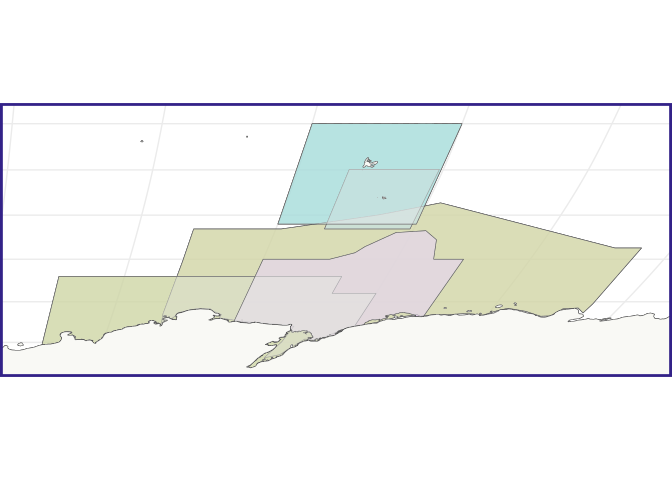
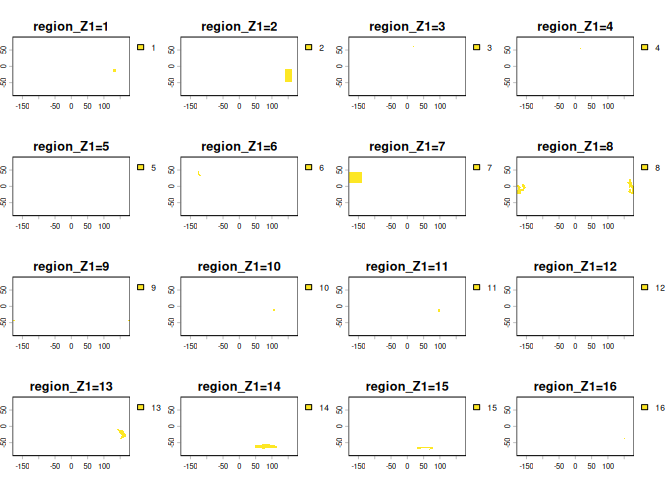
correcting minor typos

diff --git a/scripts/03b_Regional_Models_3DMasks.md b/scripts/03b_Regional_Models_3DMasks.md
@@ -47,18 +47,18 @@ and add a unique ID identifying each region.
 
 ``` r
 #Loading shapefile
-regions <- file.path(
+regions <- read_sf(file.path(
   "/rd/gem/private/shared_resources/FishMIP_regional_models", 
-  "FishMIP_regional_models.shp") |> 
-  read_sf() |> 
+  "FishMIP_regional_models.shp")) |> 
   #Create a unique ID for each region
   rowid_to_column("id")
 
 #Checking result
 ne_countries(returnclass = "sf") |> 
-  ggplot()+
-  geom_sf()+
-  geom_sf(inherit.aes = F, data = regions, aes(fill = region), alpha = 0.7)+
+  ggplot() +
+  geom_sf() +
+  geom_sf(inherit.aes = FALSE, data = regions, aes(fill = region), 
+          alpha = 0.7) +
   theme_bw()
 ```
 
@@ -78,8 +78,8 @@ and ESMs. We will list all the files contained in that folder.
 samples_dir <- "/rd/gem/private/shared_resources/grid_cell_area_ESMs"
 
 #Getting a list of sample rasters in the isimip folders
-sample_rasters <- list.files(samples_dir, pattern = ".nc$", full.names = T,
-                             recursive = T) |> 
+sample_rasters <- list.files(samples_dir, pattern = ".nc$", full.names = TRUE,
+                             recursive = TRUE) |> 
   str_subset("isimip")
 
 #Checking results
@@ -113,7 +113,7 @@ exists, if not, we will create one.
 #Ensure output folder exists
 out_folder <- "/rd/gem/private/shared_resources/FishMIPMasks"
 if(!dir.exists(out_folder)){
-  dir.create(out_folder, recursive = T)}
+  dir.create(out_folder, recursive = TRUE)}
 
 #Storing each region inside the regions shapefile as an element of a list
 region_list <- split(regions, 1:nrow(regions))
@@ -127,8 +127,7 @@ for(ras in sample_rasters){
   stack_list <- map(region_list, shp_to_raster, ras)
   stack <- rast(stack_list)
   #Create name for mask to be saved from original raster sample
-  file_out <- str_replace(basename(ras), 
-                          "global", "fishMIP_regional_mask")
+  file_out <- str_replace(basename(ras), "global", "fishMIP_regional_mask")
   file_out <- file.path(out_folder, file_out)
   #Save multi dimensional raster mask
   writeCDF(stack, file_out, overwrite = T, varname = "region",
@@ -142,7 +141,7 @@ We will plot one mask to ensure it has been correctly created.
 
 ``` r
 ras <- rast(list.files("/rd/gem/private/shared_resources/FishMIPMasks", 
-                       "w-fractions.*nc", full.names = T))
+                       "w-fractions.*nc", full.names = TRUE))
 plot(ras)
 ```
 
@@ -198,12 +197,12 @@ sample <- rast(str_subset(sample_rasters, "w-fractions"))
 
 ``` r
 #We will choose mask 7 - Central North Pacific (see keys above)
-east_ant <- ras[[7]]
+central_north_pacific <- ras[[7]]
 #We will replace the ID for the region for the value of 1
-east_ant[!is.na(east_ant)] = 1
+central_north_pacific[!is.na(central_north_pacific)] = 1
 
 #Multiply data and mask
-extract_data <- sample*east_ant
+extract_data <- sample*central_north_pacific
 #Check result
 plot(extract_data)
 ```
@@ -219,10 +218,10 @@ masks to `csv` masks.
 ``` r
 mask_df <- function(raster_path, keys){
   df <- rast(raster_path) |> 
-    as.data.frame(xy = T) |> 
+    as.data.frame(xy = TRUE) |> 
     rename("lon" = "x", "lat" = "y") |> 
     pivot_longer(starts_with("region"), names_to = "region", values_to = "id", 
-                 values_drop_na = T) |>
+                 values_drop_na = TRUE) |>
     select(!region) |> 
     left_join(keys, by = "id")
   
@@ -236,11 +235,11 @@ mask_df <- function(raster_path, keys){
 Now we will apply this function to all raster masks.
 
 ``` r
-raster_masks <- list.files(out_folder, pattern = ".nc$", full.names = T)
+raster_masks <- list.files(out_folder, pattern = ".nc$", full.names = TRUE)
 
 #Applying function creating csv masks
-for(ras in raster_masks){
-  mask_df(ras, reg_keys)}
+raster_masks |> 
+  map(\(x) mask_df(x, reg_keys))
 ```
 
 ## How to use data frame mask
@@ -252,12 +251,12 @@ extract the data we need.
 #Load sample ESM data
 sample_df <- sample |> 
   #Transforming to data frame
-  as.data.frame(xy = T) |> 
+  as.data.frame(xy = TRUE) |> 
   rename("lon" = "x", "lat" = "y")
 
 #Load raster mask
 mask_df <- read_csv(list.files(out_folder, "w-fractions.*csv",
-                               full.names = T)) |> 
+                               full.names = TRUE)) |> 
   #We will choose East Antarctica - EwE
   filter(region == "East Antarctica EwE")
 ```
@@ -278,7 +277,7 @@ extract_df <- mask_df |>
 
 #Plotting result
 extract_df |> 
-  ggplot()+
+  ggplot() +
   geom_raster(aes(x = lon, y = lat, fill = areacello))
 ```
 
@@ -289,7 +288,7 @@ You can also apply the mask to extract all data at once.
 ``` r
 #Apply mask to ESM data
 extract_df_all <- read_csv(list.files(out_folder, "w-fractions.*csv",
-                               full.names = T)) |> 
+                                      full.names = TRUE)) |> 
   left_join(sample_df, by = c("lon", "lat"))
 ```
 
@@ -305,10 +304,10 @@ extract_df_all <- read_csv(list.files(out_folder, "w-fractions.*csv",
 ``` r
 #Plotting result
 extract_df_all |> 
-  ggplot()+
+  ggplot() +
   #Color by region, transparency by area
-  geom_raster(aes(x = lon, y = lat, fill = region, alpha = areacello), 
-              show.legend = F)
+  geom_raster(aes(x = lon, y = lat, fill = region, alpha = areacello),
+              show.legend = FALSE)
 ```
 
 ![](figures/unnamed-chunk-12-1.png)<!-- -->
